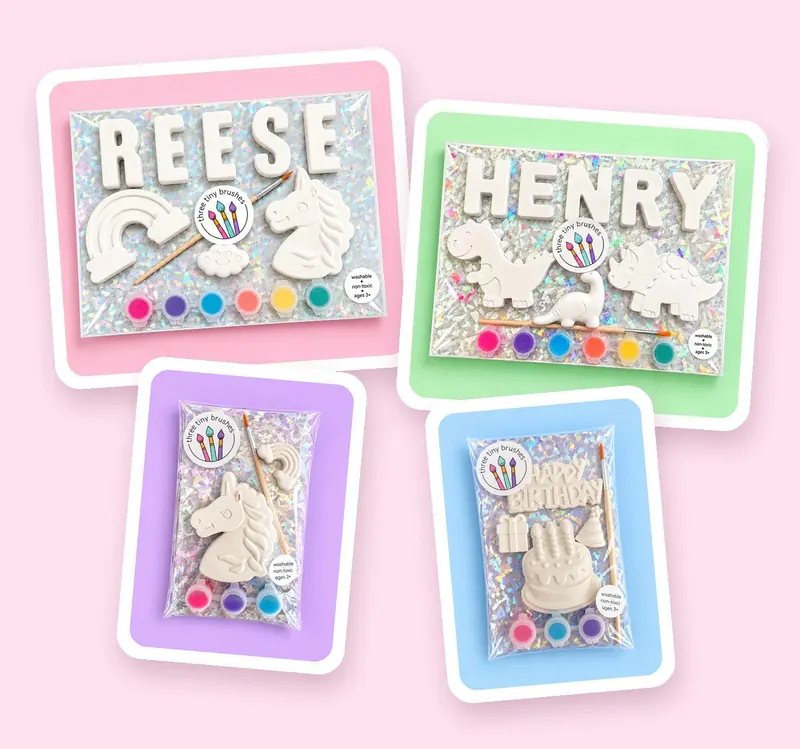
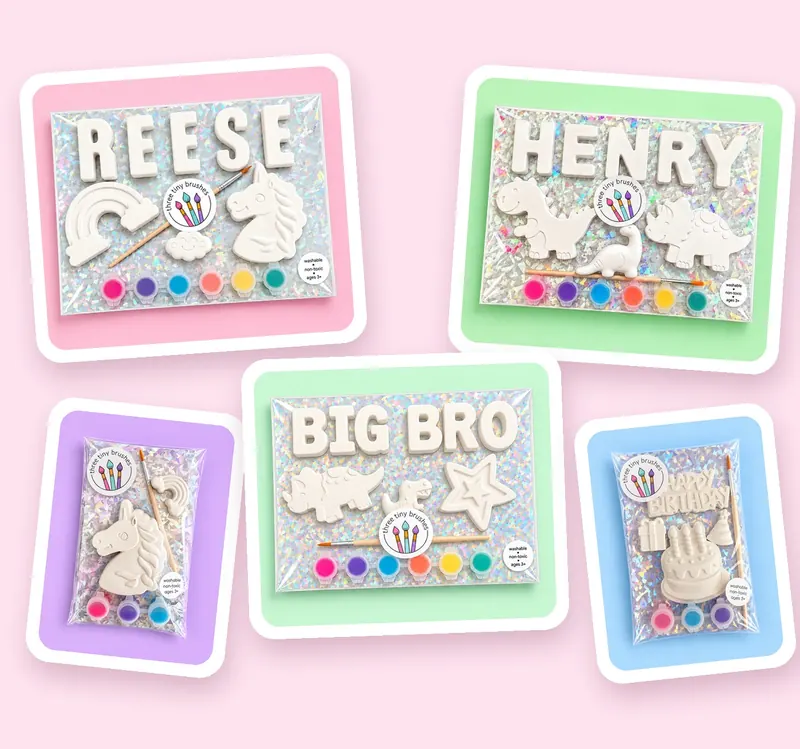
Hero collage: add Big Bro kit (5 cards); alt text

diff --git a/index.html b/index.html
@@ -60,7 +60,7 @@
     <li class="pill" style="background:var(--lav-t)"><span aria-hidden="true">📦</span> Shipping</li>
    </ul>
   </div>
-  <div class="hero-img"><picture><source type="image/webp" srcset="img/hero-kits-560.webp 560w, img/hero-kits-800.webp 800w, img/hero-kits-1100.webp 1100w" sizes="(min-width:1160px) 480px, (min-width:900px) 40vw, (min-width:600px) 560px, calc(100vw - 40px)"><img src="img/hero-kits-800.jpg" srcset="img/hero-kits-560.jpg 560w, img/hero-kits-800.jpg 800w, img/hero-kits-1100.jpg 1100w" sizes="(min-width:1160px) 480px, (min-width:900px) 40vw, (min-width:600px) 560px, calc(100vw - 40px)" width="1400" height="1310" alt="Personalized paint name kits for Reese (unicorn) and Henry (dino), plus Unicorn &amp; Rainbow and Happy Birthday party packs" fetchpriority="high" decoding="async"></picture></div>
+  <div class="hero-img"><picture><source type="image/webp" srcset="img/hero-kits-560.webp 560w, img/hero-kits-800.webp 800w, img/hero-kits-1100.webp 1100w" sizes="(min-width:1160px) 480px, (min-width:900px) 40vw, (min-width:600px) 560px, calc(100vw - 40px)"><img src="img/hero-kits-800.jpg" srcset="img/hero-kits-560.jpg 560w, img/hero-kits-800.jpg 800w, img/hero-kits-1100.jpg 1100w" sizes="(min-width:1160px) 480px, (min-width:900px) 40vw, (min-width:600px) 560px, calc(100vw - 40px)" width="1400" height="1310" alt="Personalized paint name kits for Reese (unicorn) and Henry (dino), a Big Bro paint kit, plus Unicorn &amp; Rainbow and Happy Birthday party packs" fetchpriority="high" decoding="async"></picture></div>
  </div>
 </div>
 

diff --git a/tools/make_hero_collage.py b/tools/make_hero_collage.py
@@ -1,4 +1,4 @@
-# Builds the hero collage (2 name kits + 2 party packs, Oct 12 2026) -> site-revamp/images/hero-kits-collage.jpg; then resize to img/hero-kits-{560,800,1100}.
+# Builds the hero collage (Reese + Henry name kits, Big Bro kit, Unicorn & Rainbow + Happy Birthday party packs; Oct 12 2026) -> site-revamp/images/hero-kits-collage.jpg; then resize to img/hero-kits-{560,800,1100}.
 from PIL import Image,ImageDraw,ImageFilter
 S='/workspace/threetinybrushes/site-revamp/images/';P='/workspace/threetinybrushes/incoming/2026-10-06-party-packs/'
 old=Image.open(S+'hero-kits-collage.jpg').convert('RGB');bg=old.getpixel((10,10))
@@ -20,8 +20,9 @@ def place(cd,x,y,ang):
     c.alpha_composite(sh);c.alpha_composite(cd,(x,y))
 # name kits: crop to the package area (pkg ~145..895 x 225..785 of 1024 scale on 1600 -> *1.5625)
 k=lambda a:(int(a[0]*1.5625),int(a[1]*1.5625),int(a[2]*1.5625),int(a[3]*1.5625))
-place(card(S+'unicorn-wishes-personalized-paintable-name-kit.jpg',640,560,k((70,150,970,880))),60,80,4)
-place(card(S+'dino-mite-personalized-paintable-name-kit.jpg',620,545,k((70,150,970,880))),690,170,-4)
-place(card(P+'party-pack-1.png',400,530),200,620,-5)
-place(card(P+'happy-birthday-pack.png',400,530),740,670,5)
+place(card(S+'unicorn-wishes-personalized-paintable-name-kit.jpg',580,508,k((70,150,970,880))),30,90,4)
+place(card(S+'dino-mite-personalized-paintable-name-kit.jpg',580,508,k((70,150,970,880))),780,110,-4)
+place(card(P+'party-pack-1.png',350,465),40,690,-6)
+place(card(S+'big-bro-paint-kit.jpg',560,490,k((70,150,970,880))),420,610,2)
+place(card(P+'happy-birthday-pack.png',350,465),1000,700,6)
 c.convert('RGB').save('hero-kits-collage.jpg',quality=92)

diff --git a/tools/build_html.py b/tools/build_html.py
@@ -172,7 +172,7 @@ html=f'''<!doctype html>
     <li class="pill" style="background:var(--lav-t)"><span aria-hidden="true">📦</span> Shipping</li>
    </ul>
   </div>
-  <div class="hero-img">{pic("hero-kits","Personalized paint name kits for Reese (unicorn) and Henry (dino), plus Unicorn &amp; Rainbow and Happy Birthday party packs","(min-width:1160px) 480px, (min-width:900px) 40vw, (min-width:600px) 560px, calc(100vw - 40px)",lazy=False,w=1400,h=1310,variants=(560,800,1100))}</div>
+  <div class="hero-img">{pic("hero-kits","Personalized paint name kits for Reese (unicorn) and Henry (dino), a Big Bro paint kit, plus Unicorn &amp; Rainbow and Happy Birthday party packs","(min-width:1160px) 480px, (min-width:900px) 40vw, (min-width:600px) 560px, calc(100vw - 40px)",lazy=False,w=1400,h=1310,variants=(560,800,1100))}</div>
  </div>
 </div>
 
